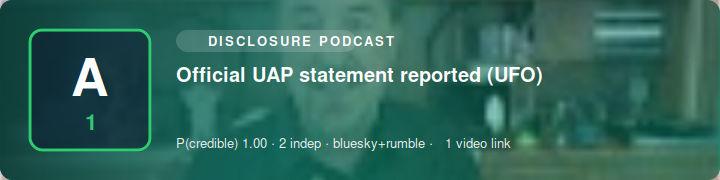
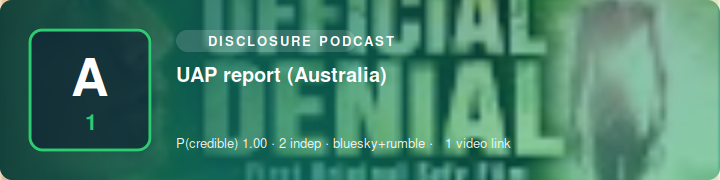
SITREP 2026-07-23 17:40 UTC

diff --git a/index.html b/index.html
@@ -1,1 +1,1 @@
-<!doctype html><meta charset=utf-8><title>Science Bob News — SITREP</title><style>body{font:16px/1.5 system-ui,sans-serif;max-width:760px;margin:2rem auto;padding:0 1rem;color:#111}h1{font-size:1.5rem}h2{margin-top:1.6rem;border-bottom:1px solid #ddd;padding-bottom:.2rem}ul{list-style:none;padding:0}li{margin:.9rem 0}.hl{font-weight:600}.meta{color:#555;font-size:.85rem}.src{font-size:.85rem}.vid{font-size:.85rem;margin-top:.15rem}.card{display:block;max-width:100%;height:auto;border-radius:8px;margin:.4rem 0 .5rem}.upd{background:#fde68a;padding:0 .3rem;border-radius:.2rem;font-size:.75rem}.sub{color:#777;font-size:.85rem}footer{color:#777;font-size:.8rem;margin-top:2rem;border-top:1px solid #ddd;padding-top:.6rem}</style><h1>🛸 Science Bob News</h1><div class="sub">UAP / UFO / USO SITREP · updated 2026-07-23 17:30 UTC · automated</div><h2>Corroborated</h2><ul><li><i>No corroborated reports.</i></li></ul><h2>Developing / unconfirmed</h2><ul><li><img class="card" src="https://n4hy.github.io/sciencebobnews-site/card_d_1.svg" alt="" width="720" height="180"><div class="hl">Official UAP statement reported (Newly)</div><div class="meta">reliability <b>A1</b> · P(credible)=1.0 · 1 independent source(s) · mastodon</div><div class="src"><a href="https://mastodon.au/@vibewire/116957536031397754">@vibewire@mastodon.au</a></div></li><li><img class="card" src="https://n4hy.github.io/sciencebobnews-site/card_d_2.svg" alt="" width="720" height="180"><div class="hl">UAP report (McMinnville)</div><div class="meta">reliability <b>A1</b> · P(credible)=1.0 · 1 independent source(s) · rumble</div><div class="src"><a href="https://www.youtube.com/watch?v=7OT6uJ0yzVY">@podcast</a></div><div class="vid">📹 <a href="https://www.youtube.com/watch?v=7OT6uJ0yzVY">video</a></div></li><li><img class="card" src="https://n4hy.github.io/sciencebobnews-site/card_d_3.svg" alt="" width="720" height="180"><div class="hl">UAP whistleblower testimony reported (Frank)</div><div class="meta">reliability <b>A1</b> · P(credible)=1.0 · 1 independent source(s) · rumble</div><div class="src"><a href="https://www.youtube.com/watch?v=CxvFVjJKZtA">@podcast</a></div><div class="vid">📹 <a href="https://www.youtube.com/watch?v=CxvFVjJKZtA">video</a></div></li><li><img class="card" src="https://n4hy.github.io/sciencebobnews-site/card_d_4.svg" alt="" width="720" height="180"><div class="hl">UAP whistleblower testimony reported (American)</div><div class="meta">reliability <b>A1</b> · P(credible)=1.0 · 1 independent source(s) · rumble</div><div class="src"><a href="https://www.youtube.com/watch?v=LPtMaGpuK-M">@podcast</a></div><div class="vid">📹 <a href="https://www.youtube.com/watch?v=LPtMaGpuK-M">video</a></div></li><li><img class="card" src="https://n4hy.github.io/sciencebobnews-site/card_d_5.svg" alt="" width="720" height="180"><div class="hl">UAP report (Australia)</div><div class="meta">reliability <b>A1</b> · P(credible)=1.0 · 1 independent source(s) · rumble</div><div class="src"><a href="https://www.youtube.com/watch?v=ZegQhxJrJGo">@podcast</a></div><div class="vid">📹 <a href="https://www.youtube.com/watch?v=ZegQhxJrJGo">video</a></div></li></ul><footer><b>Powered by Science Bob News.</b> Free to use with credit (see LICENSE). Headlines are factual restatements in the engine's own words; click sources for originals. Single-origin reposts collapse to one source; prosaic candidates flagged where offered.</footer>
+<!doctype html><meta charset=utf-8><title>Science Bob News — SITREP</title><style>body{font:16px/1.5 system-ui,sans-serif;max-width:760px;margin:2rem auto;padding:0 1rem;color:#111}h1{font-size:1.5rem}h2{margin-top:1.6rem;border-bottom:1px solid #ddd;padding-bottom:.2rem}ul{list-style:none;padding:0}li{margin:.9rem 0}.hl{font-weight:600}.meta{color:#555;font-size:.85rem}.src{font-size:.85rem}.vid{font-size:.85rem;margin-top:.15rem}.card{display:block;max-width:100%;height:auto;border-radius:8px;margin:.4rem 0 .5rem}.upd{background:#fde68a;padding:0 .3rem;border-radius:.2rem;font-size:.75rem}.sub{color:#777;font-size:.85rem}footer{color:#777;font-size:.8rem;margin-top:2rem;border-top:1px solid #ddd;padding-top:.6rem}</style><h1>🛸 Science Bob News</h1><div class="sub">UAP / UFO / USO SITREP · updated 2026-07-23 17:40 UTC · automated</div><h2>Corroborated</h2><ul><li><img class="card" src="https://n4hy.github.io/sciencebobnews-site/card_c_1.svg" alt="" width="720" height="180"><div class="hl">UAP report (Australia)</div><div class="meta">reliability <b>A1</b> · P(credible)=1.0 · 2 independent source(s) · bluesky+rumble</div><div class="src"><a href="https://www.youtube.com/watch?v=ZegQhxJrJGo">@podcast</a> · <a href="https://bsky.app/profile/did:plc:hjg4zjsmt672fupiepz7tvxg/post/3mrdd7mkmm223">@did:plc:hjg4zjsmt672fupiepz7tvxg</a></div><div class="vid">📹 <a href="https://www.youtube.com/watch?v=ZegQhxJrJGo">video</a></div></li></ul><h2>Developing / unconfirmed</h2><ul><li><img class="card" src="https://n4hy.github.io/sciencebobnews-site/card_d_1.svg" alt="" width="720" height="180"><div class="hl">Official UAP statement reported (Newly)</div><div class="meta">reliability <b>A1</b> · P(credible)=1.0 · 1 independent source(s) · mastodon</div><div class="src"><a href="https://mastodon.au/@vibewire/116957536031397754">@vibewire@mastodon.au</a></div></li><li><img class="card" src="https://n4hy.github.io/sciencebobnews-site/card_d_2.svg" alt="" width="720" height="180"><div class="hl">UAP report (McMinnville)</div><div class="meta">reliability <b>A1</b> · P(credible)=1.0 · 1 independent source(s) · rumble</div><div class="src"><a href="https://www.youtube.com/watch?v=7OT6uJ0yzVY">@podcast</a></div><div class="vid">📹 <a href="https://www.youtube.com/watch?v=7OT6uJ0yzVY">video</a></div></li><li><img class="card" src="https://n4hy.github.io/sciencebobnews-site/card_d_3.svg" alt="" width="720" height="180"><div class="hl">UAP whistleblower testimony reported (Frank)</div><div class="meta">reliability <b>A1</b> · P(credible)=1.0 · 1 independent source(s) · rumble</div><div class="src"><a href="https://www.youtube.com/watch?v=CxvFVjJKZtA">@podcast</a></div><div class="vid">📹 <a href="https://www.youtube.com/watch?v=CxvFVjJKZtA">video</a></div></li><li><img class="card" src="https://n4hy.github.io/sciencebobnews-site/card_d_4.svg" alt="" width="720" height="180"><div class="hl">UAP whistleblower testimony reported (American)</div><div class="meta">reliability <b>A1</b> · P(credible)=1.0 · 1 independent source(s) · rumble</div><div class="src"><a href="https://www.youtube.com/watch?v=LPtMaGpuK-M">@podcast</a></div><div class="vid">📹 <a href="https://www.youtube.com/watch?v=LPtMaGpuK-M">video</a></div></li><li><img class="card" src="https://n4hy.github.io/sciencebobnews-site/card_d_5.svg" alt="" width="720" height="180"><div class="hl">Official UAP statement reported (Concrete)</div><div class="meta">reliability <b>A1</b> · P(credible)=1.0 · 1 independent source(s) · rumble</div><div class="src"><a href="https://www.youtube.com/watch?v=ze5dhbpzszY">@podcast</a></div><div class="vid">📹 <a href="https://www.youtube.com/watch?v=ze5dhbpzszY">video</a></div></li></ul><footer><b>Powered by Science Bob News.</b> Free to use with credit (see LICENSE). Headlines are factual restatements in the engine's own words; click sources for originals. Single-origin reposts collapse to one source; prosaic candidates flagged where offered.</footer>

diff --git a/sitrep.md b/sitrep.md
@@ -1,8 +1,13 @@
 # 🛸 Science Bob News — UAP / UFO / USO SITREP
-*Updated 2026-07-23 17:30 UTC · auto-generated · sources credited & linked · reliability ratings are automated, not editorial*
+*Updated 2026-07-23 17:40 UTC · auto-generated · sources credited & linked · reliability ratings are automated, not editorial*
 
 ## Corroborated
-_No corroborated reports this cycle._
+
+![UAP report (Australia)](https://n4hy.github.io/sciencebobnews-site/card_c_1.svg)
+1. **UAP report (Australia)**  
+   reliability **A1** · P(credible)=1.0 · 2 independent source(s) · bluesky+rumble  
+   [@podcast](https://www.youtube.com/watch?v=ZegQhxJrJGo) · [@did:plc:hjg4zjsmt672fupiepz7tvxg](https://bsky.app/profile/did:plc:hjg4zjsmt672fupiepz7tvxg/post/3mrdd7mkmm223)  
+   📹 [video](https://www.youtube.com/watch?v=ZegQhxJrJGo)
 
 ## Developing / unconfirmed
 
@@ -25,10 +30,10 @@ _No corroborated reports this cycle._
    [@podcast](https://www.youtube.com/watch?v=LPtMaGpuK-M)  
    📹 [video](https://www.youtube.com/watch?v=LPtMaGpuK-M)
 
-![UAP report (Australia)](https://n4hy.github.io/sciencebobnews-site/card_d_5.svg)
-5. UAP report (Australia) — reliability A1 · 1 source(s)  
-   [@podcast](https://www.youtube.com/watch?v=ZegQhxJrJGo)  
-   📹 [video](https://www.youtube.com/watch?v=ZegQhxJrJGo)
+![Official UAP statement reported (Concrete)](https://n4hy.github.io/sciencebobnews-site/card_d_5.svg)
+5. Official UAP statement reported (Concrete) — reliability A1 · 1 source(s)  
+   [@podcast](https://www.youtube.com/watch?v=ze5dhbpzszY)  
+   📹 [video](https://www.youtube.com/watch?v=ze5dhbpzszY)
 
 ---
 *Powered by Science Bob News. Free to use with credit (see LICENSE). Headlines are factual restatements in the engine's own words — click through to the linked sources for originals. Reposts of a single origin are collapsed to one source; candidate prosaic explanations are flagged where offered.*
